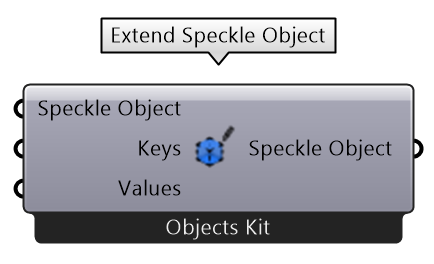
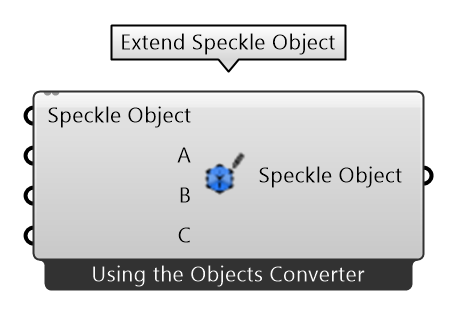
feat(user): Added missing GH nodes

diff --git a/user/grasshopper.md b/user/grasshopper.md
@@ -456,7 +456,25 @@ All outputs will appear in alphabetical order regardless on the order they were 
 
 ![Extend object node](./img-gh/nodes-extend-object.png)
 
-The **Extend Speckle Object** provides a way to add new properties to an already existing `Base` object.
+The **Extend Speckle Object** node provides a way to add new properties to an already existing `Base` object using _variable parameters_.
+
+#### Inputs
+
+- _Speckle Object_: The Speckle object to be extended.
+
+::: tip Variable inputs
+You can add or remove inputs just like you would with the `Create Speckle Object` node.
+:::
+
+#### Outpus
+
+- _Speckle Object_: The extended/updated Speckle `Base` object.
+
+### Extend Speckle Object by Key/Value
+
+![Extend object by key/value node](./img-gh/nodes-extend-object-keyval.png)
+
+The **Extend Speckle Object by Key/Value** provides a way to add new properties to an already existing `Base` object.
 
 <!-- > This node is capable of [Kit Selection](#object-conversion-and-kits) -->
 
@@ -626,6 +644,18 @@ The **Serialize objects** node will convert any Speckle object into `JSON` forma
 
 The **Deserialize Objects** node will convert a serialized speckle object in json format into `Base` speckle objects.
 
+#### Send to Transport
+
+![](./img-gh/nodes-transports-send.png)
+
+Sends an object to a specified transport and returns the `id` of the object.
+
+#### Receive from Transport
+
+Receives an object from the specified transport using it's `id`
+
+![](./img-gh/nodes-transports-receive.png)
+
 #### SQLite Transport
 
 ![SQLite Transport](./img-gh/nodes-transport-sqlite.png)
@@ -643,7 +673,3 @@ Creates a connection to a specific file in the computer's disk, where the data w
 ![Memory transport](./img-gh/nodes-transport-memory.png)
 
 Creates a connection to in-memory storage.
-
-```
-
-```
